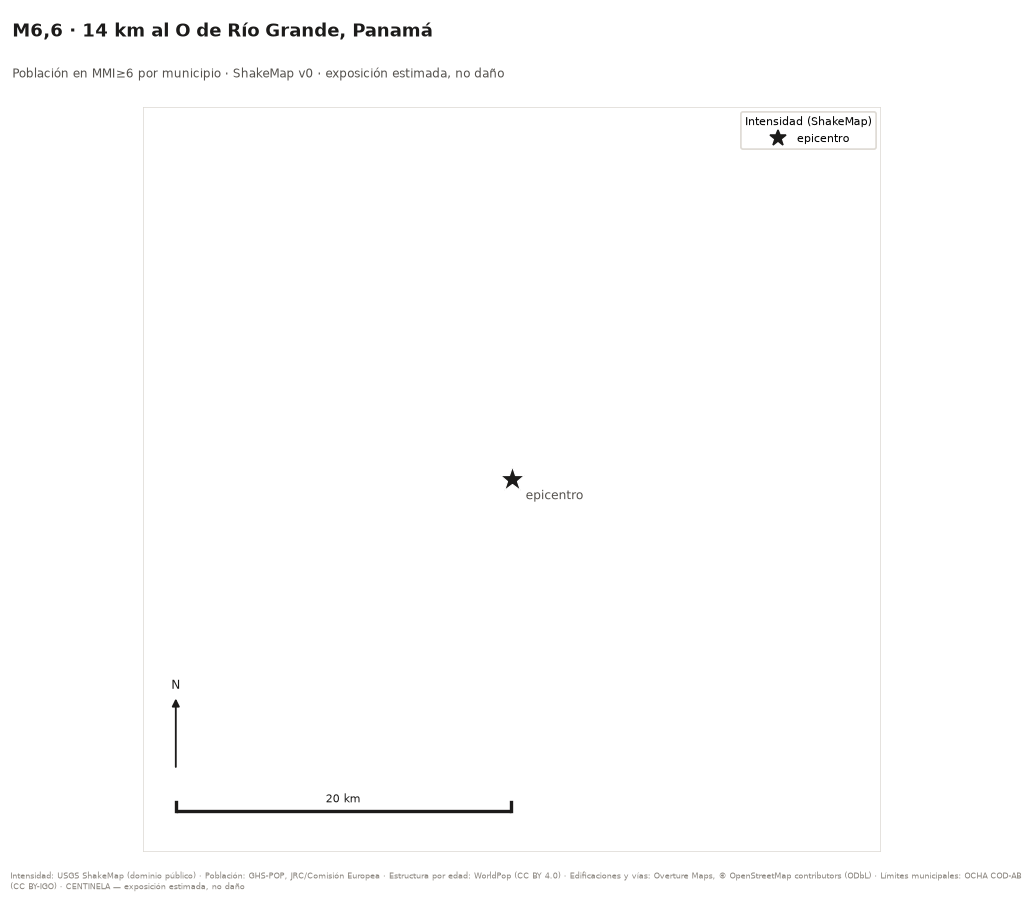
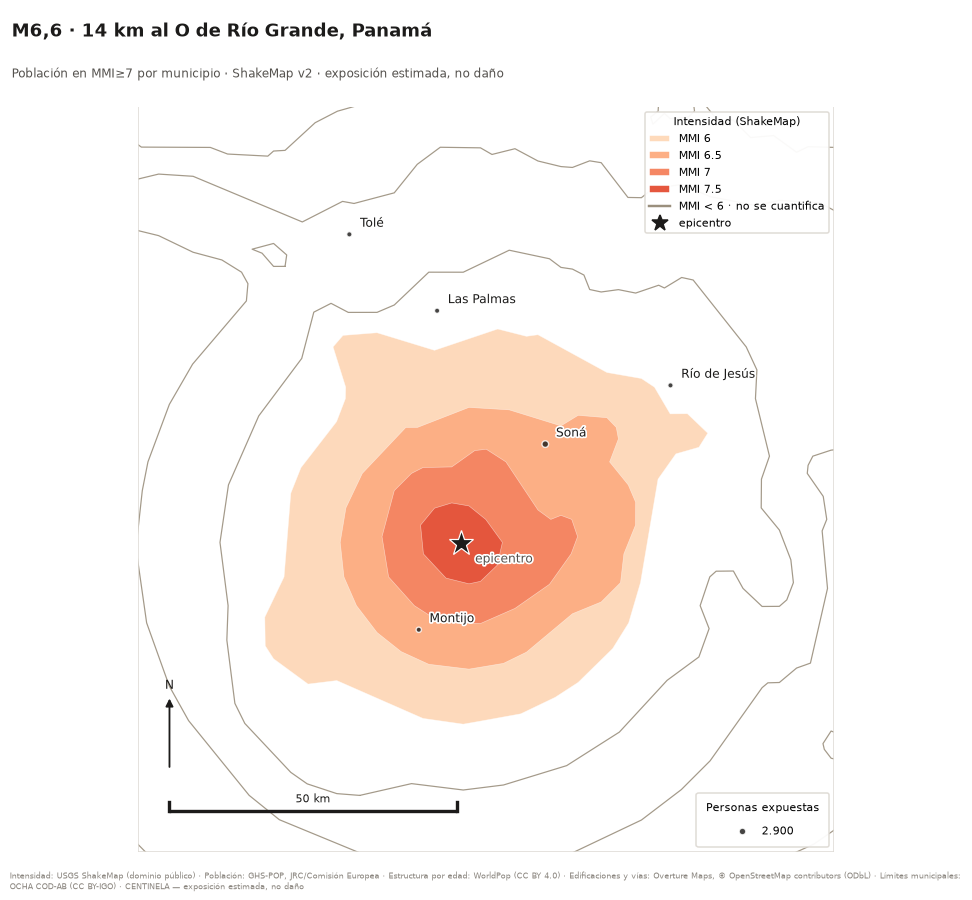
P3: reporte de pt26282001

diff --git a/reports/pt26282001/report.md b/reports/pt26282001/report.md
@@ -2,32 +2,73 @@
 
 **Evento USGS:** `pt26282001` · **Origen:** 2026-10-09T20:25:40Z UTC · **Profundidad:** 10,0 km
 
-> **Reporte preliminar sin ShakeMap.** El corte es por radios alrededor del epicentro, no por intensidad modelada. Se actualiza automáticamente en cuanto USGS publique el ShakeMap del evento.
+## Exposición estimada
 
-## Población por distancia al epicentro
-
-| Radio desde el epicentro | Población |
+| Indicador | Estimado |
 |---|---:|
-| 25 km | 7.900 |
-| 50 km | 47 mil |
-| 100 km | 450 mil |
+| Población en MMI≥6 | 28 mil |
+| Población en MMI≥7 | 2.900 |
+| Población en MMI≥8 | el evento no llegó a esta banda |
+| Edificaciones en MMI≥7 | 2.100 |
+| Sedes de salud en MMI≥7 | 0 |
+| Sedes educativas en MMI≥7 | 1 |
+| Vías primarias y secundarias en MMI≥7 | 3 km |
+| Vías locales en MMI≥7 | 44 km |
+| Superficie construida en MMI≥7 | 0,2 km² |
 
-Los radios **no son bandas de intensidad**. Aquí no hay modelo de sacudida, solo distancia: un sismo superficial y uno profundo de la misma magnitud tienen el mismo circulo y no se parecen en nada. La cifra sirve para dimensionar, no para priorizar.
+Las cifras de esta tabla van redondeadas a dos cifras significativas, que es la precisión que un modelo de exposición sostiene. Las exactas están en el CSV municipal y en `report.json`.
+
+De la población en intensidad MMI≥7, alrededor de **330** personas tienen 65 años o más.
+
+## Municipios más expuestos, por población en MMI≥7
+
+| # | Municipio | Código | MMI max | Población MMI≥7 |
+|---:|---|---|---:|---:|
+| 1 | Soná | `PA1312` | 7,5 | 2.900 |
 
 ## Deslizamiento y licuefacción
 
-USGS no ha publicado el producto *Ground Failure* para este evento. La sección se omite; el reporte se re-emite automáticamente si aparece.
+- **Deslizamiento.** Población en celdas de MMI≥6 donde el modelo espera ≥ 0,10 de probabilidad de deslizamiento según `jessee_2018_model.tif`: **0**. USGS declara para este evento alerta **amarilla**, con 16 expuestas. El cero de arriba no dice que no haya exposición: dice que ninguna celda llega al umbral.
+- **Licuefacción.** Población en celdas de MMI≥6 donde el modelo espera ≥ 0,10 de cobertura areal por licuefacción según `zhu_2017_general_model.tif`: **12 mil**. USGS declara para este evento alerta **naranja**, con 3.200 expuestas.
+
+Las dos cifras se cuentan sobre las celdas del corte publicado (MMI≥6). **No son las de USGS y no se pueden comparar de frente**: aquí se cuenta la población entera de toda celda por encima del umbral, y USGS pondera la población de cada celda por el valor de esa celda. Son dos preguntas distintas sobre el mismo ráster.
+
+**Y el umbral se evalúa en un solo punto por celda: su centroide.** El píxel del ráster es más pequeño que la celda, así que ese punto decide si entra la población entera de la celda o no entra ninguna. No es una estadística areal, y el sesgo que introduce no está medido: puede quedarse corto o pasarse.
+
+Fuente: producto *Ground Failure* de USGS (v1), dominio público.
+
+## Referencia cruzada
+
+PAGER (USGS) estima para este evento una alerta **amarilla**. CENTINELA no estima víctimas; la cifra se incluye solo como contraste.
+
+Las dos cifras **no se tabulan igual** y no se pueden leer una contra otra: PAGER agrupa por MMI redondeado (su fila «7» es todo lo que cae entre 6,5 y 7,49) y CENTINELA usa bandas literales, donde MMI≥7 es MMI≥7. Puede además que no hablen del mismo ShakeMap: este reporte declara en «Procedencia» qué versión consumió, y PAGER pudo correr sobre otra versión o sobre otro producto del mismo sismo. El contraste banda a banda, hecho y comprobado para el sismo de San José del Palmar, está en `docs/PARA_INSTITUCIONES.md`.
 
 ## Incertidumbre y calidad
 
-Discrepancia entre GHS-POP y WorldPop: **no se calcula en un reporte preliminar**. El contraste se hace celda a celda dentro de las bandas de intensidad, y sin ShakeMap todavía no hay bandas que cortar. Aparecerá en cuanto el reporte se re-emita con el ShakeMap.
+Discrepancia entre GHS-POP y WorldPop en las bandas MMI publicadas: **7,1 %**.
+
+## Cambios frente a la versión anterior
+
+- ShakeMap: v0 → v2 (us)
+- Ground Failure: v0 → v1 (us)
+- Población en MMI≥6: 0 → 28 mil
+- Población en MMI≥7: 0 → 2.900
+- Población de 65 años o más en MMI≥7: 0 → 330
+- Edificaciones en MMI≥7: 0 → 2.100
+- Sedes educativas en MMI≥7: 0 → 1
+- Población en cobertura areal alta por licuefacción: 0 → 12 mil
+
+## Descargas
+
+- [CSV por municipio](adm2.csv)
+- [Mapa PNG](mapa_general.png)
 
 ## Procedencia
 
-- ShakeMap consumido: **ninguno** (no publicado aún)
-- Ground Failure consumido: **ninguno** (no publicado aún)
+- ShakeMap consumido: **v2** de `us`
+- Ground Failure consumido: **v1** de `us`
 - Manifiesto de exposición: [`pan-v0.4`](https://github.com/sforero77/CENTINELA/blob/main/data/manifests/PAN.yaml)
-- Pipeline: `0.1.0` · Generado: 2026-10-09T20:40:59Z
+- Pipeline: `0.1.0` · Generado: 2026-10-09T20:55:57Z
 
 ## Advertencias
 
